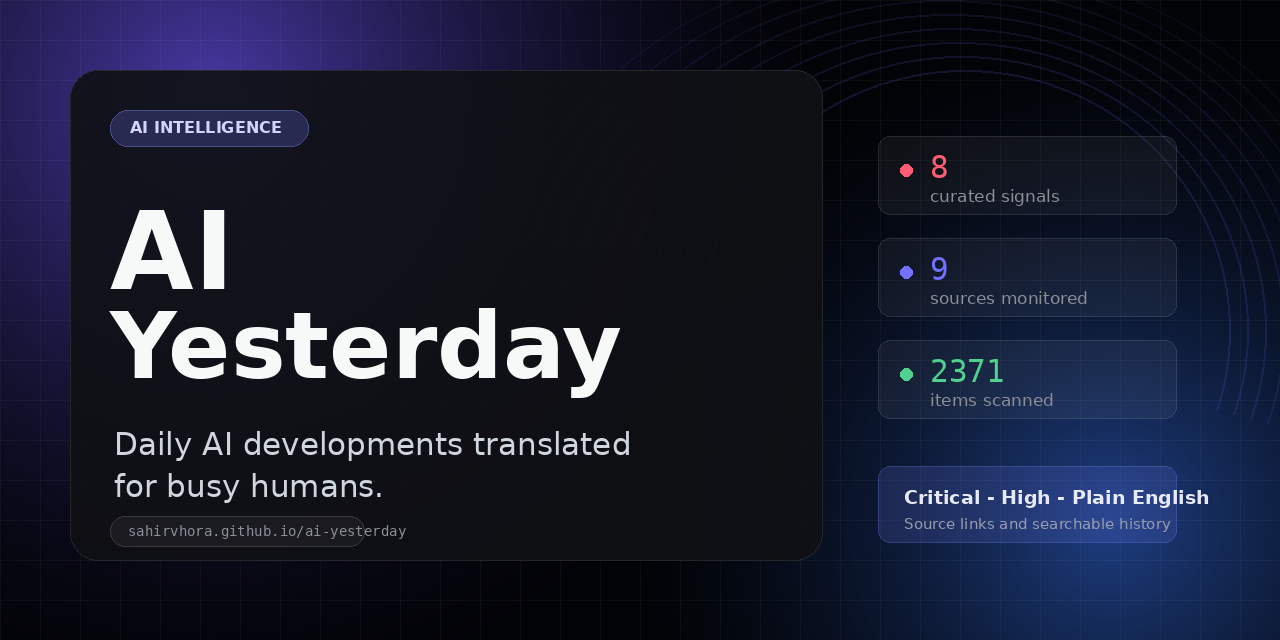
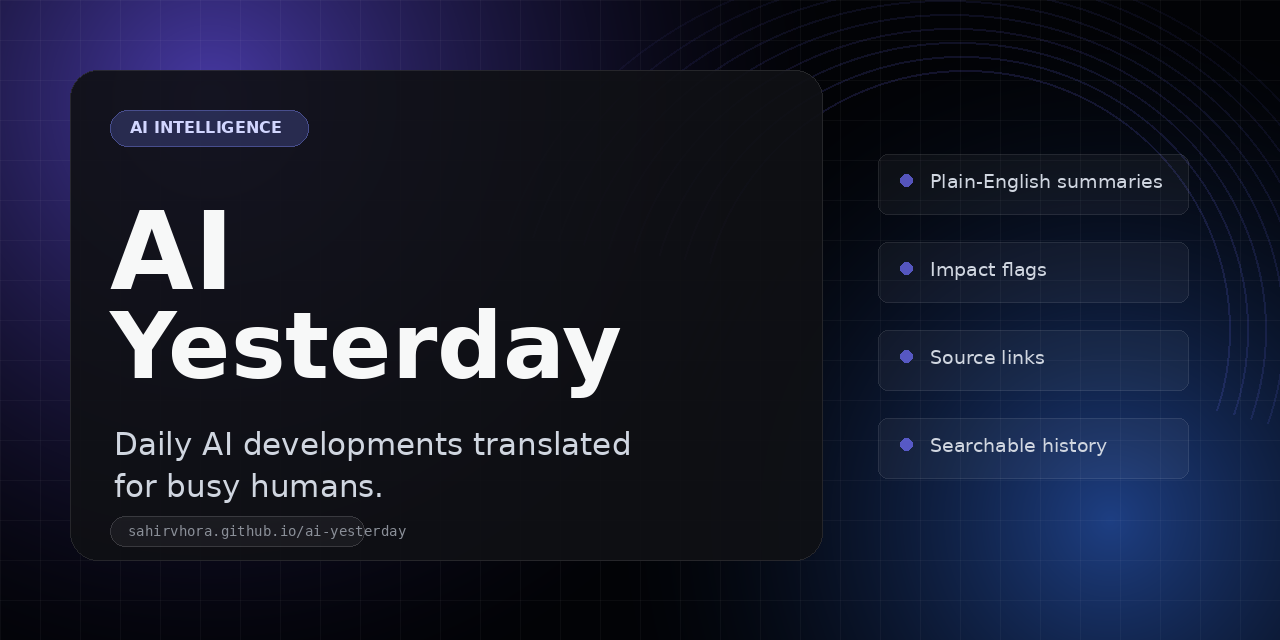
Remove stale stat numbers from preview PNGs
Numbers like '11 signals', '9 sources', '2332 scanned' were hardcoded
and went stale between digest runs. Replaced with static feature list
(Plain-English summaries, Impact flags, Source links, etc.) so the
social preview never shows outdated metrics.

diff --git a/scripts/generate_preview.py b/scripts/generate_preview.py
@@ -1,7 +1,6 @@
 #!/usr/bin/env python3
 from __future__ import annotations
 
-import json
 import math
 from pathlib import Path
 from PIL import Image, ImageDraw, ImageFilter, ImageFont
@@ -11,22 +10,6 @@ W, H = 1280, 640
 FONT_BOLD = "/usr/share/fonts/truetype/dejavu/DejaVuSans-Bold.ttf"
 FONT_REG = "/usr/share/fonts/truetype/dejavu/DejaVuSans.ttf"
 FONT_MONO = "/usr/share/fonts/truetype/dejavu/DejaVuSansMono.ttf"
-
-# Load live stats from digest
-DIGEST_PATH = ROOT / "data" / "digest.json"
-if DIGEST_PATH.exists():
-    with open(DIGEST_PATH) as f:
-        _digest = json.load(f)
-    _meta = _digest.get("metadata", {})
-    STAT_SIGNALS = str(_meta.get("item_count", 0))
-    STAT_SOURCES = str(_meta.get("source_count", 0))
-    STAT_SCANNED = str(_meta.get("feed_items_scanned", 0))
-    STAT_CRITICAL = str(sum(1 for i in _digest.get("items", []) if i.get("importance") == "Critical"))
-else:
-    STAT_SIGNALS = "0"
-    STAT_SOURCES = "0"
-    STAT_SCANNED = "0"
-    STAT_CRITICAL = "0"
 
 
 def font(path: str, size: int) -> ImageFont.FreeTypeFont:
@@ -86,16 +69,13 @@ def variant_linear() -> Image.Image:
     text(d, (114, 468), "for busy humans.", 31, (208, 214, 224))
     rr(d, (110, 516, 364, 546), 15, (255, 255, 255, 12), (255, 255, 255, 35), 1)
     text(d, (128, 523), "sahirvhora.github.io/ai-yesterday", 14, (138, 143, 152), mono=True)
-    labels = [(STAT_SIGNALS, "curated signals", (255, 93, 115)), (STAT_SOURCES, "sources monitored", (113, 112, 255)), (STAT_SCANNED, "items scanned", (80, 209, 141))]
-    for idx, (num, label, color) in enumerate(labels):
-        y = 136 + idx * 102
-        rr(d, (878, y, 1176, y + 78), 12, (255, 255, 255, 12), (255, 255, 255, 26), 1)
-        d.ellipse((900, y + 28, 912, y + 40), fill=color)
-        text(d, (930, y + 13), num, 31, color, mono=True)
-        text(d, (930, y + 50), label, 17, (138, 143, 152))
-    rr(d, (878, 466, 1176, 542), 12, (94, 106, 210, 52), (130, 143, 255, 58), 1)
-    text(d, (904, 486), "Critical - High - Plain English", 19, (231, 233, 246), bold=True)
-    text(d, (904, 515), "Source links and searchable history", 15, (151, 157, 174))
+    # Right-side decorative feature list
+    features = ["Plain-English summaries", "Impact flags", "Source links", "Searchable history"]
+    for idx, feat in enumerate(features):
+        y = 154 + idx * 88
+        rr(d, (878, y, 1188, y + 60), 10, (255, 255, 255, 10), (255, 255, 255, 22), 1)
+        d.ellipse((900, y + 20, 912, y + 32), fill=(114, 112, 255, 180))
+        text(d, (930, y + 16), feat, 19, (208, 214, 224))
     return img.convert("RGB")
 
 
@@ -120,15 +100,14 @@ def variant_vercel() -> Image.Image:
         d.ellipse((x + 16, 512, x + 28, 524), fill=color)
         text(d, (x + 38, 507), label, 16, (23, 23, 23), bold=True)
         x += 146
-    metrics = [(STAT_SIGNALS, "signals"), (STAT_SOURCES, "sources"), ("daily", "updates")]
-    for idx, (num, label) in enumerate(metrics):
-        y = 164 + idx * 92
-        rr(d, (870, y, 1118, y + 64), 10, (255, 255, 255, 255), (0, 0, 0, 28), 1)
-        text(d, (896, y + 10), num, 26, (23, 23, 23), bold=True, mono=True)
-        text(d, (984, y + 17), label, 18, (102, 102, 102))
+    features = ["Plain-English summaries", "Impact & importance flags", "Source links included"]
+    for idx, feat in enumerate(features):
+        y = 174 + idx * 88
+        rr(d, (870, y, 1130, y + 60), 10, (255, 255, 255, 255), (0, 0, 0, 28), 1)
+        d.ellipse((892, y + 20, 904, y + 32), fill=(10, 114, 239))
+        text(d, (922, y + 17), feat, 16, (23, 23, 23), bold=True)
     text(d, (874, 496), "sahirvhora.github.io/ai-yesterday", 16, (77, 77, 77), mono=True)
     return img
-
 
 def variant_superhuman() -> Image.Image:
     img = glow_background((27, 25, 56), [(250, 120, (94, 65, 160), 600), (1060, 80, (104, 54, 130), 520), (980, 560, (36, 38, 80), 520)])
